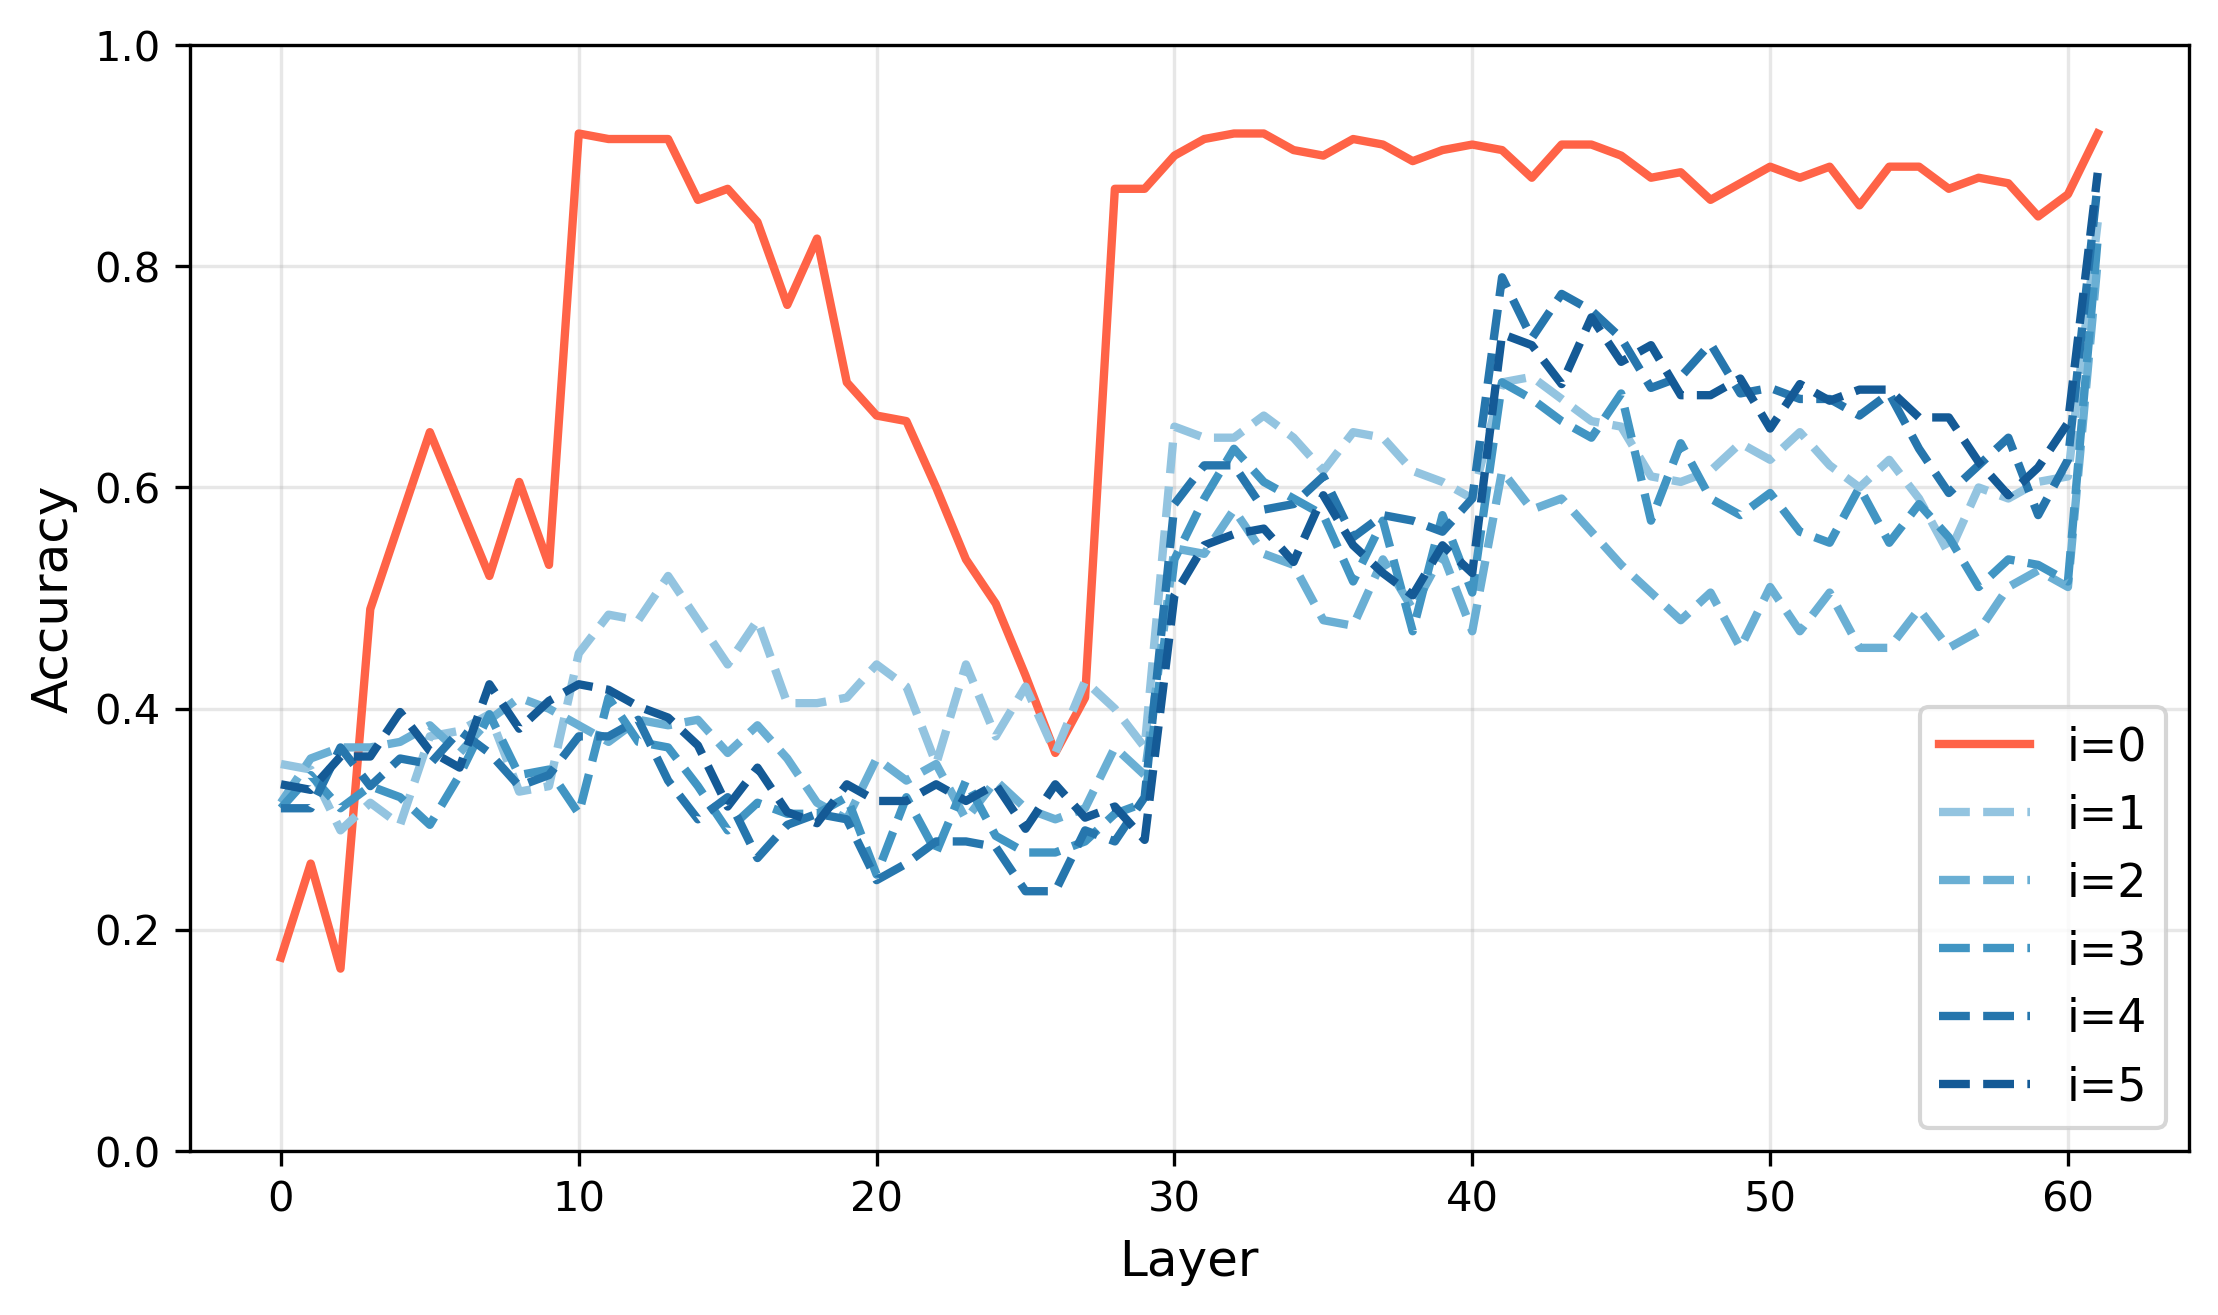
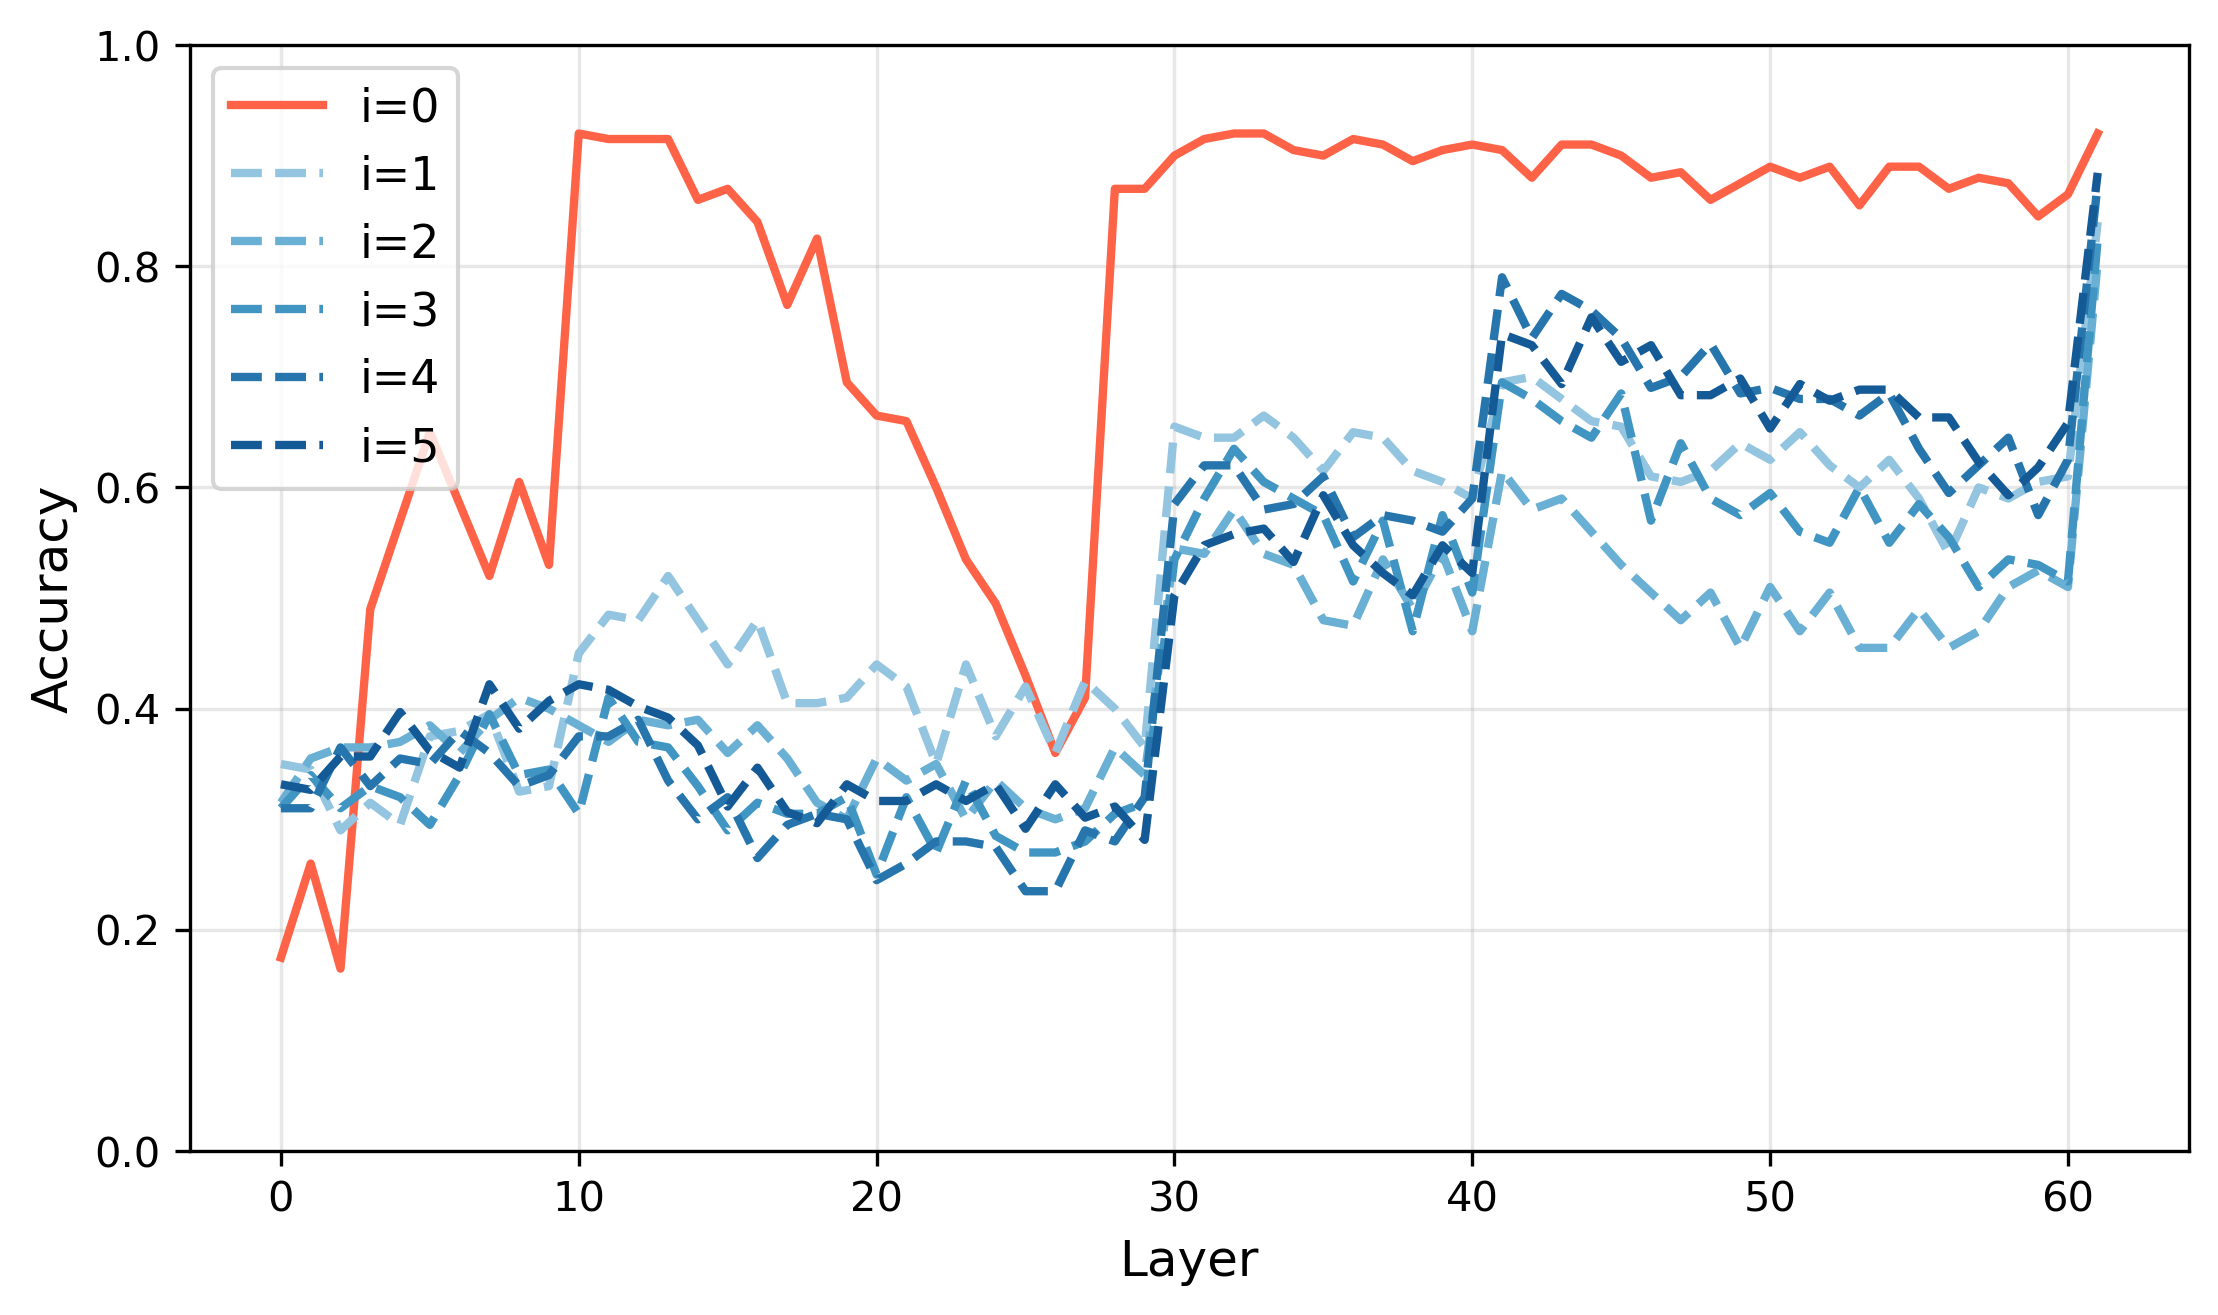
fix: graphs oops

diff --git a/poem/src/visualize_results.py b/poem/src/visualize_results.py
@@ -121,7 +121,7 @@ def main():
         ax.set_title(args.title, fontsize=14, fontweight='bold')
     ax.set_ylim(args.acc_min, args.acc_max)
     ax.grid(True, alpha=0.3)
-    ax.legend(fontsize=11)
+    ax.legend(fontsize=11, loc='upper left')
     fig.tight_layout()
 
     output_dir = args.output_dir or str(Path(args.result_json[0]).parent)
